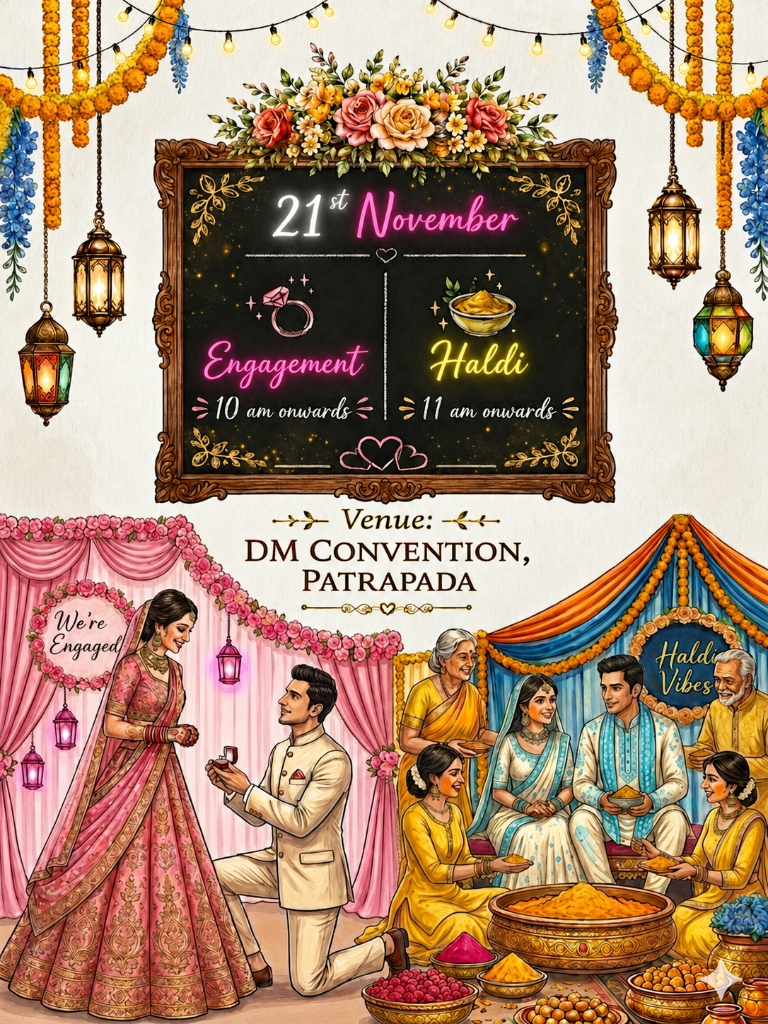
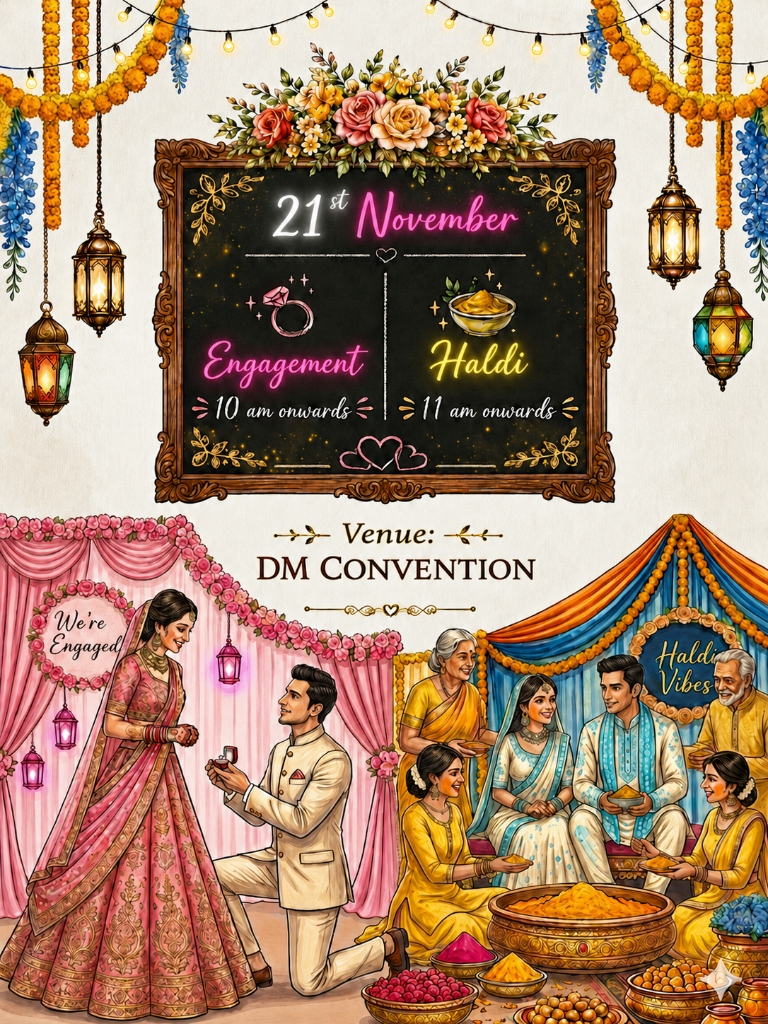
feat: replace 3rd (Engagement & Haldi) and 4th (Mehendi & Sangeet) images with corrected DM Convention venue details, bump cache buster to v3

diff --git a/index.html b/index.html
@@ -419,27 +419,27 @@ html, body {
   <div id="gallery">
 
     <div class="screen" id="s1" data-i="0">
-      <img src="assets/slide1_married.jpg?v=2" alt="We are getting married" loading="eager">
+      <img src="assets/slide1_married.jpg?v=3" alt="We are getting married" loading="eager">
     </div>
 
     <div class="screen" id="s2" data-i="1">
-      <img src="assets/slide2_engagement_haldi.jpg?v=2" alt="Engagement & Haldi" loading="lazy">
+      <img src="assets/slide2_engagement_haldi.jpg?v=3" alt="Engagement & Haldi" loading="lazy">
     </div>
 
     <div class="screen" id="s3" data-i="2">
-      <img src="assets/slide3_mehendi_sangeet.jpg?v=2" alt="Mehendi & Sangeet" loading="lazy">
+      <img src="assets/slide3_mehendi_sangeet.jpg?v=3" alt="Mehendi & Sangeet" loading="lazy">
     </div>
 
     <div class="screen" id="s4" data-i="3">
-      <img src="assets/slide4_wedding.jpg?v=2" alt="The Wedding" loading="lazy">
+      <img src="assets/slide4_wedding.jpg?v=3" alt="The Wedding" loading="lazy">
     </div>
 
     <div class="screen" id="s5" data-i="4">
-      <img src="assets/slide5_reception.jpg?v=2" alt="Grand Reception" loading="lazy">
+      <img src="assets/slide5_reception.jpg?v=3" alt="Grand Reception" loading="lazy">
     </div>
 
     <div class="screen" id="s6" data-i="5">
-      <img src="assets/slide6_thankyou.jpg?v=2" alt="Thank You" loading="lazy">
+      <img src="assets/slide6_thankyou.jpg?v=3" alt="Thank You" loading="lazy">
     </div>
 
   </div>
@@ -601,7 +601,7 @@ dots.forEach((d, i) => {
 /* ── Preload ── */
 setTimeout(() => {
   ['slide2_engagement_haldi','slide3_mehendi_sangeet','slide4_wedding','slide5_reception','slide6_thankyou']
-    .forEach(n => { const img = new Image(); img.src = `assets/${n}.jpg?v=2`; });
+    .forEach(n => { const img = new Image(); img.src = `assets/${n}.jpg?v=3`; });
 }, 800);
 </script>
 